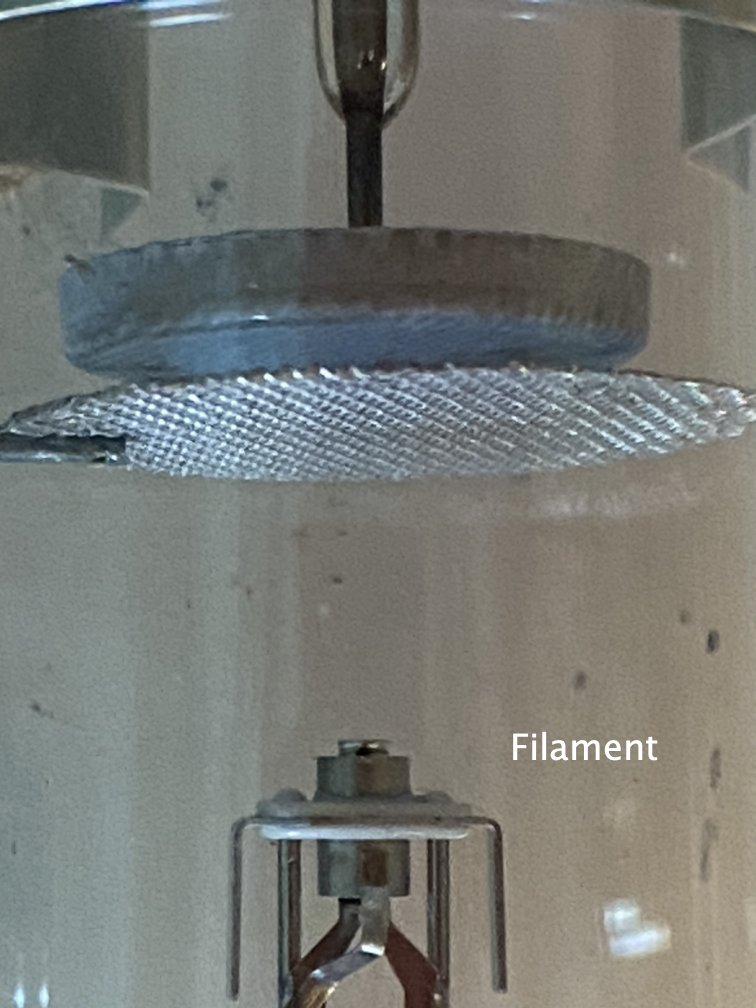
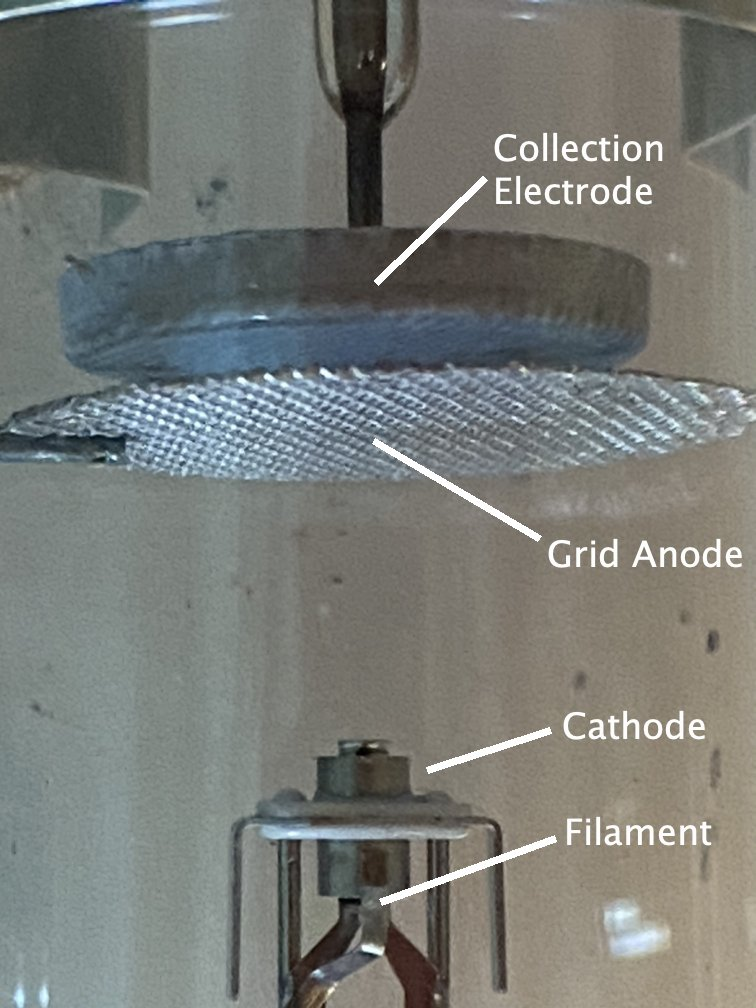
fixed the lab guide link; added Keithley manual and annotated closeup image

diff --git a/FranckHertz/index.html b/FranckHertz/index.html
@@ -47,7 +47,9 @@
       <h1 class="Title">Franck-Hertz Experiment</h1>
       <div class="text-block">
         <h5 class="SubTitle">
-          <a target="_blank" href="static/docs/FHlabGuide.pdf">Click here to access the lab guide.</a>
+          <a target="_blank" href="https://gauchospace.ucsb.edu/courses/course/view.php?id=40788">Click here to access the lab guide for PHYS 5L</a>
+            <br> 
+          <a target="_blank" href="static/docs/FHLabGuide.pdf">Click here to access the lab guide for PHYS 25L</a>
             <br>  
           <span style="font-weight: 100;font-style: italic;"> This will become a link to the course's GauchoSpace.</span>
         </h5>
@@ -97,6 +99,9 @@
             <img src="static/images/FHbwIcon.jpg">
           </a>
           <div class="click-note">(click for circuit diagram)</div>
+          <br>
+          <br>
+          <br>
         </div> 
         <div id="ControlsLeft" >
           <h1 class="heading-2"><em>V</em>(<em>a</em>)</h1>
@@ -123,26 +128,15 @@
             (choose increment and click arrows to adjust accelerating voltage)
           </div>
         </div>
-        <div id="FilamentVariac" >
-          <br>
-          <div id="radioButtonsVf" class="w-row">
-            <div class="column w-col w-col-2" style=" bottom: -30px;"></div>
-            <div class="column w-col w-col-4" style=" bottom: -30px;">
-              <input type="radio" id="3.6_deg_Vf" name="angleStepVf" value="3.6">
-              <label for="3.6_deg_Vf">3.6&#176;</label>
-            </div>  <!-- &nbsp;&nbsp;&nbsp; -->
-            <div class="column w-col w-col-4" style="bottom: -30px;">
-              <input type="radio" id="36_deg_Vf" name="angleStepVf" value="36" checked>
-              <label for="36_deg_Vf">36&#176;</label>
-            </div>
-            <div class="column w-col w-col-2" style=" bottom: -30px;"></div>
-          </div>
-          <img id="fKnob" src="static/images/filament_knob.png" usemap="#image-map-filamentV">
-          <map name="image-map-filamentV">
-            <area id="fVcw" alt="CW" title="raise V" href="#" coords="73,3,7,36,21,47,15,61,7,77,3,95,2,109,4,125,10,143,18,157,27,169,38,177,46,182,64,155,55,146,47,138,40,125,37,108,39,93,44,79,51,68,68,75" shape="poly">
-            <area id="fVccw" alt="CCW" title="lower V" href="#" coords="226,2,231,76,249,67,256,74,261,83,264,99,264,115,260,129,254,140,247,149,238,155,245,166,252,175,256,181,270,171,280,160,287,147,293,135,296,119,298,103,295,87,292,72,286,60,278,47,292,36" shape="poly">
+        <div id="FilamentPower">
+          <img id="filamentSwitch" src="static/images/toggleSwitch.png"  alt="image-26" usemap="#image-map-fTOGGLE">
+          <map name="image-map-fTOGGLE">
+            <area id="filamentTOGGLE" title="Click here to turn ON" coords="0,65,71,122" shape="rect">
           </map>
-          <div class="click-note" style="margin-bottom: -20px;">(choose increment and click arrows to adjust filament potential)</div>
+          <div class="click-note">(click to toggle filament power)</div>
+          <br>
+          <br>
+          <br>
         </div>
       </div>
       <div  id="VideoCenter" class="column w-col w-col-8">
@@ -176,8 +170,11 @@
         </div>
         <div id="TubeRight" >
           <a target="_blank" href="static/images/AnnotatedCloseUp.jpg">
-            <img src="static/images/closeUp.jpg" width="140" srcset="static/images/closeUp.jpg 800w, images/closeUp.jpg 1080w, images/closeUp.jpg 1600w, images/closeUp.jpg 2000w, images/closeUp.jpg 2600w, images/closeUp.jpg 3024w" sizes="(max-width: 479px) 100vw, (max-width: 767px) 168px, (max-width: 991px) 125.5875244140625px, 17vw" alt="" class="image-7">
+            <img src="static/images/closeUp.jpg" width="200" srcset="static/images/closeUp.jpg 800w, images/closeUp.jpg 1080w, images/closeUp.jpg 1600w, images/closeUp.jpg 2000w, images/closeUp.jpg 2600w, images/closeUp.jpg 3024w" sizes="(max-width: 479px) 100vw, (max-width: 767px) 168px, (max-width: 991px) 125.5875244140625px, 17vw" alt="" class="image-7">
           </a>
+          <br>
+          <br>
+          <br> 
           <div class="click-note">
             (click for annotated image)
           </div> <br>
@@ -207,12 +204,31 @@
           <br>
           <br> 
         </div>
-        <div id="FilamentPower">
-          <img id="filamentSwitch" src="static/images/toggleSwitch.png"  alt="image-26" usemap="#image-map-fTOGGLE">
-          <map name="image-map-fTOGGLE">
-            <area id="filamentTOGGLE" title="Click here to turn ON" coords="0,65,71,122" shape="rect">
+        <div id="FilamentVariac" >
+          <br>
+          <div id="radioButtonsVf" class="w-row">
+            <div class="column w-col w-col-2" style=" bottom: -30px;"></div>
+            <div class="column w-col w-col-4" style=" bottom: -30px;">
+              <input type="radio" id="3.6_deg_Vf" name="angleStepVf" value="3.6">
+              <label for="3.6_deg_Vf">3.6&#176;</label>
+            </div>  <!-- &nbsp;&nbsp;&nbsp; -->
+            <div class="column w-col w-col-4" style="bottom: -30px;">
+              <input type="radio" id="36_deg_Vf" name="angleStepVf" value="36" checked>
+              <label for="36_deg_Vf">36&#176;</label>
+            </div>
+            <div class="column w-col w-col-2" style=" bottom: -30px;"></div>
+          </div>
+          <img id="fKnob" src="static/images/filament_knob.png" usemap="#image-map-filamentV">
+          <map name="image-map-filamentV">
+            <area id="fVcw" alt="CW" title="raise V" href="#" coords="73,3,7,36,21,47,15,61,7,77,3,95,2,109,4,125,10,143,18,157,27,169,38,177,46,182,64,155,55,146,47,138,40,125,37,108,39,93,44,79,51,68,68,75" shape="poly">
+            <area id="fVccw" alt="CCW" title="lower V" href="#" coords="226,2,231,76,249,67,256,74,261,83,264,99,264,115,260,129,254,140,247,149,238,155,245,166,252,175,256,181,270,171,280,160,287,147,293,135,296,119,298,103,295,87,292,72,286,60,278,47,292,36" shape="poly">
           </map>
-          <div class="click-note">(click to toggle filament power)</div>
+          <div class="click-note" style="margin-bottom: -20px;">(choose increment and click arrows to adjust filament potential)</div>
+        </div>
+        <div id="Keithley6514Manual">
+          <a target="_blank" href="static/docs/Keithley electrometer 6514.pdf">
+            <img src="static/images/6514ManualCover.png">
+          </a>
         </div>
       </div>
     </div>

diff --git a/FranckHertz/static/js/main.js b/FranckHertz/static/js/main.js
@@ -115,6 +115,7 @@ $("document").ready(function () {
     var PotsRight = document.getElementById("ControlsRight");
     var FilaLeft = document.getElementById("FilamentVariac");
     var FilaRight = document.getElementById("FilamentPower");
+    var MetersManual = document.getElementById("Keithley6514Manual");
     var MetersBottom = document.getElementById("MetersBottom");
 
     TempCam.addEventListener('click', function() {
@@ -133,6 +134,7 @@ $("document").ready(function () {
         PotsRight.style.display = "none";
         FilaLeft.style.display = "none";
         FilaRight.style.display = "none";
+        MetersManual.style.display = "none";
         MetersBottom.style.display = "none";
         
     })
@@ -147,6 +149,7 @@ $("document").ready(function () {
         PotsRight.style.display = "none";
         FilaLeft.style.display = "block";
         FilaRight.style.display = "block";
+        MetersManual.style.display = "none";
         MetersBottom.style.display = "none";
     })
 
@@ -160,6 +163,7 @@ $("document").ready(function () {
         PotsRight.style.display = "block";
         FilaLeft.style.display = "block";
         FilaRight.style.display = "block";
+        MetersManual.style.display = "none";
         MetersBottom.style.display = "none";
     })
 
@@ -173,6 +177,7 @@ $("document").ready(function () {
         PotsRight.style.display = "none";
         FilaLeft.style.display = "none";
         FilaRight.style.display = "none";
+        MetersManual.style.display = "block";
         MetersBottom.style.display = "block";
     })
 

diff --git a/FranckHertz/static/css/styleGrid.css b/FranckHertz/static/css/styleGrid.css
@@ -116,6 +116,17 @@
     overflow: hidden;
   } */
 
+#Keithley6514Manual {
+    position: relative;
+    top: 300px;
+}
+
+  #MetersBottom {
+    z-index: 1000;
+    position: relative;
+    top: -300px;
+}
+
 #toggleSwitch {
     width:50% ;  
     /* transform: scaleY(-1); */
@@ -129,6 +140,14 @@
     position: relative;
     top:-100%;
     overflow: visible;
+}
+#TubeLeft {
+    position: relative;
+    top: 50px;
+}
+#FilamentPower {
+    position: relative;
+    top:50px;
 }
 #v{
     width: 100%;
